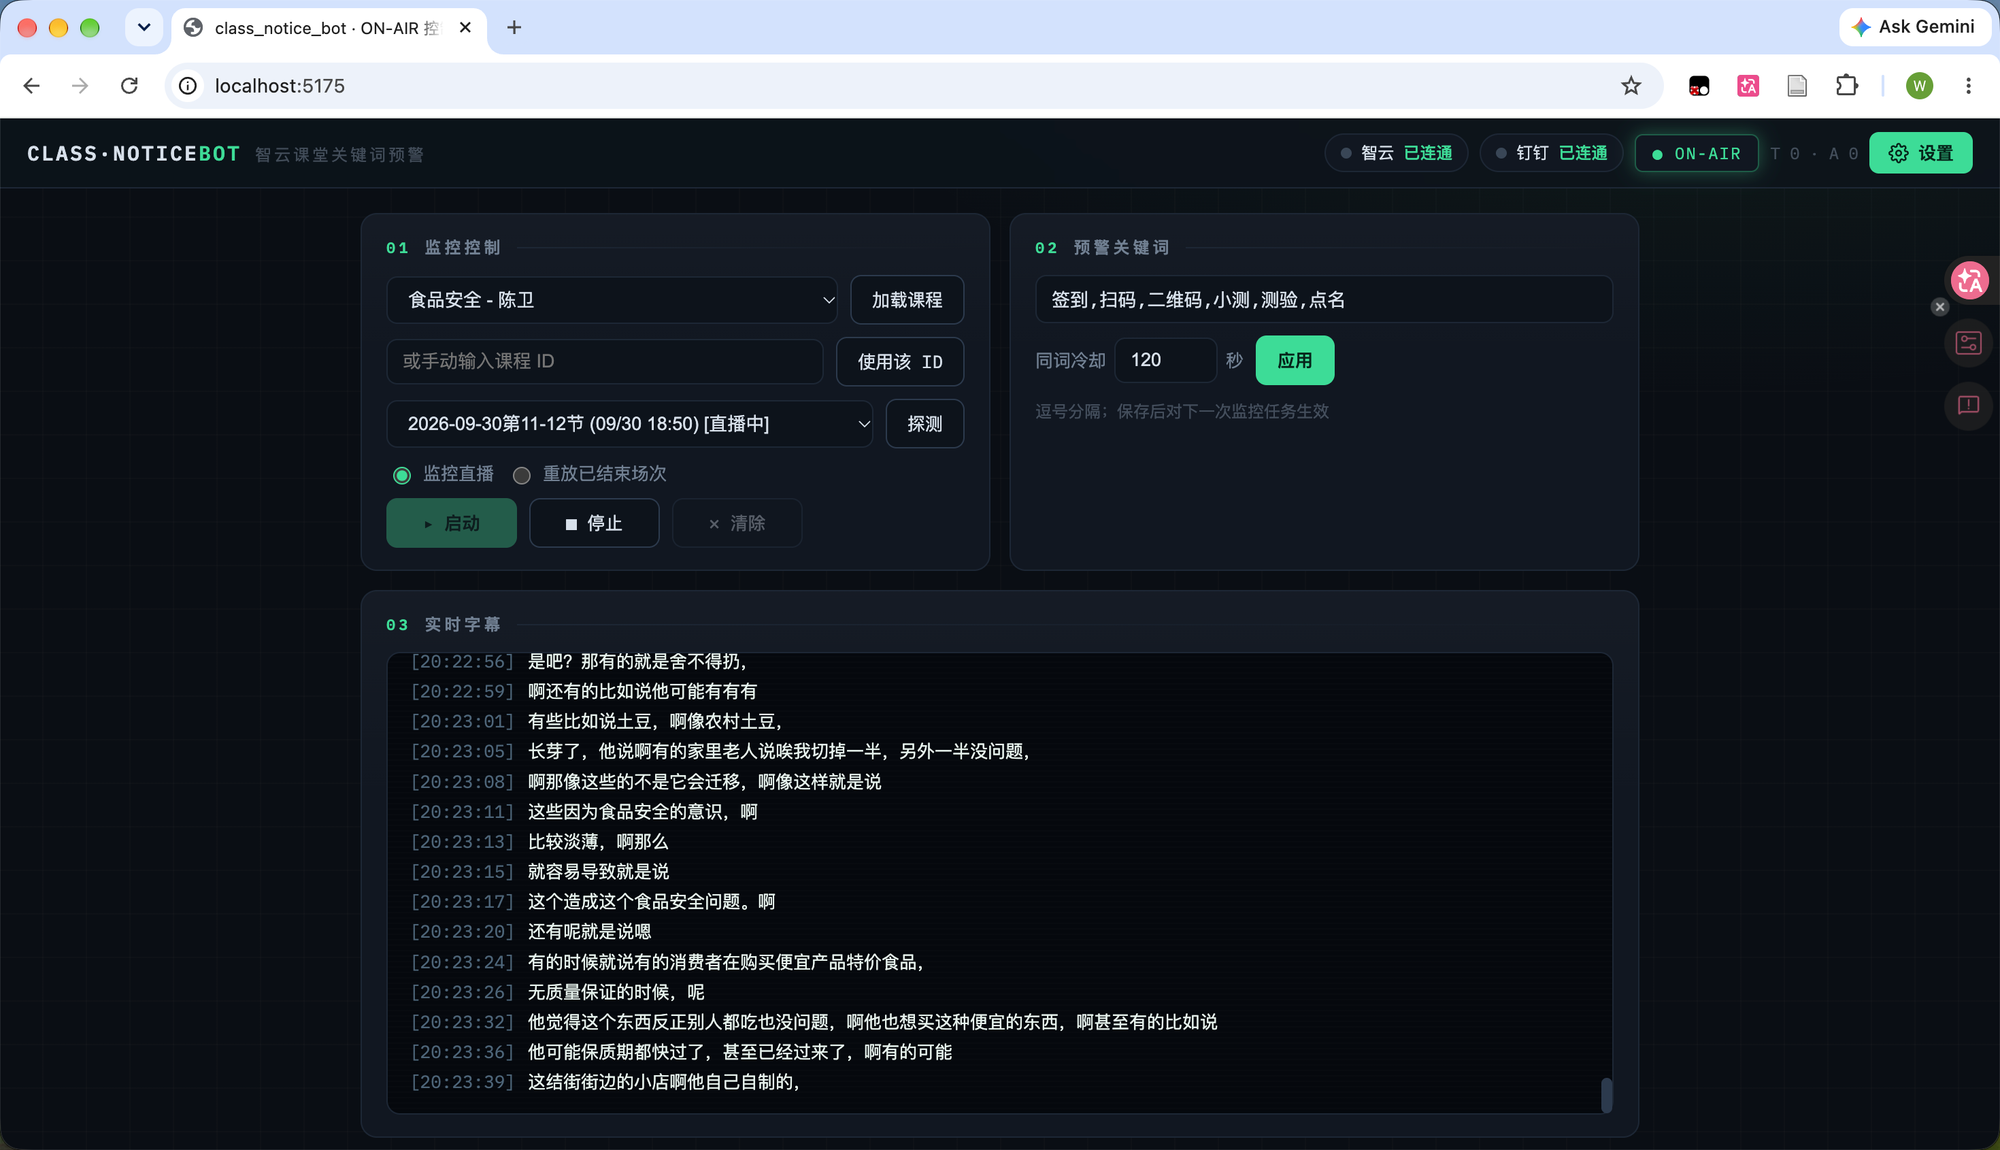
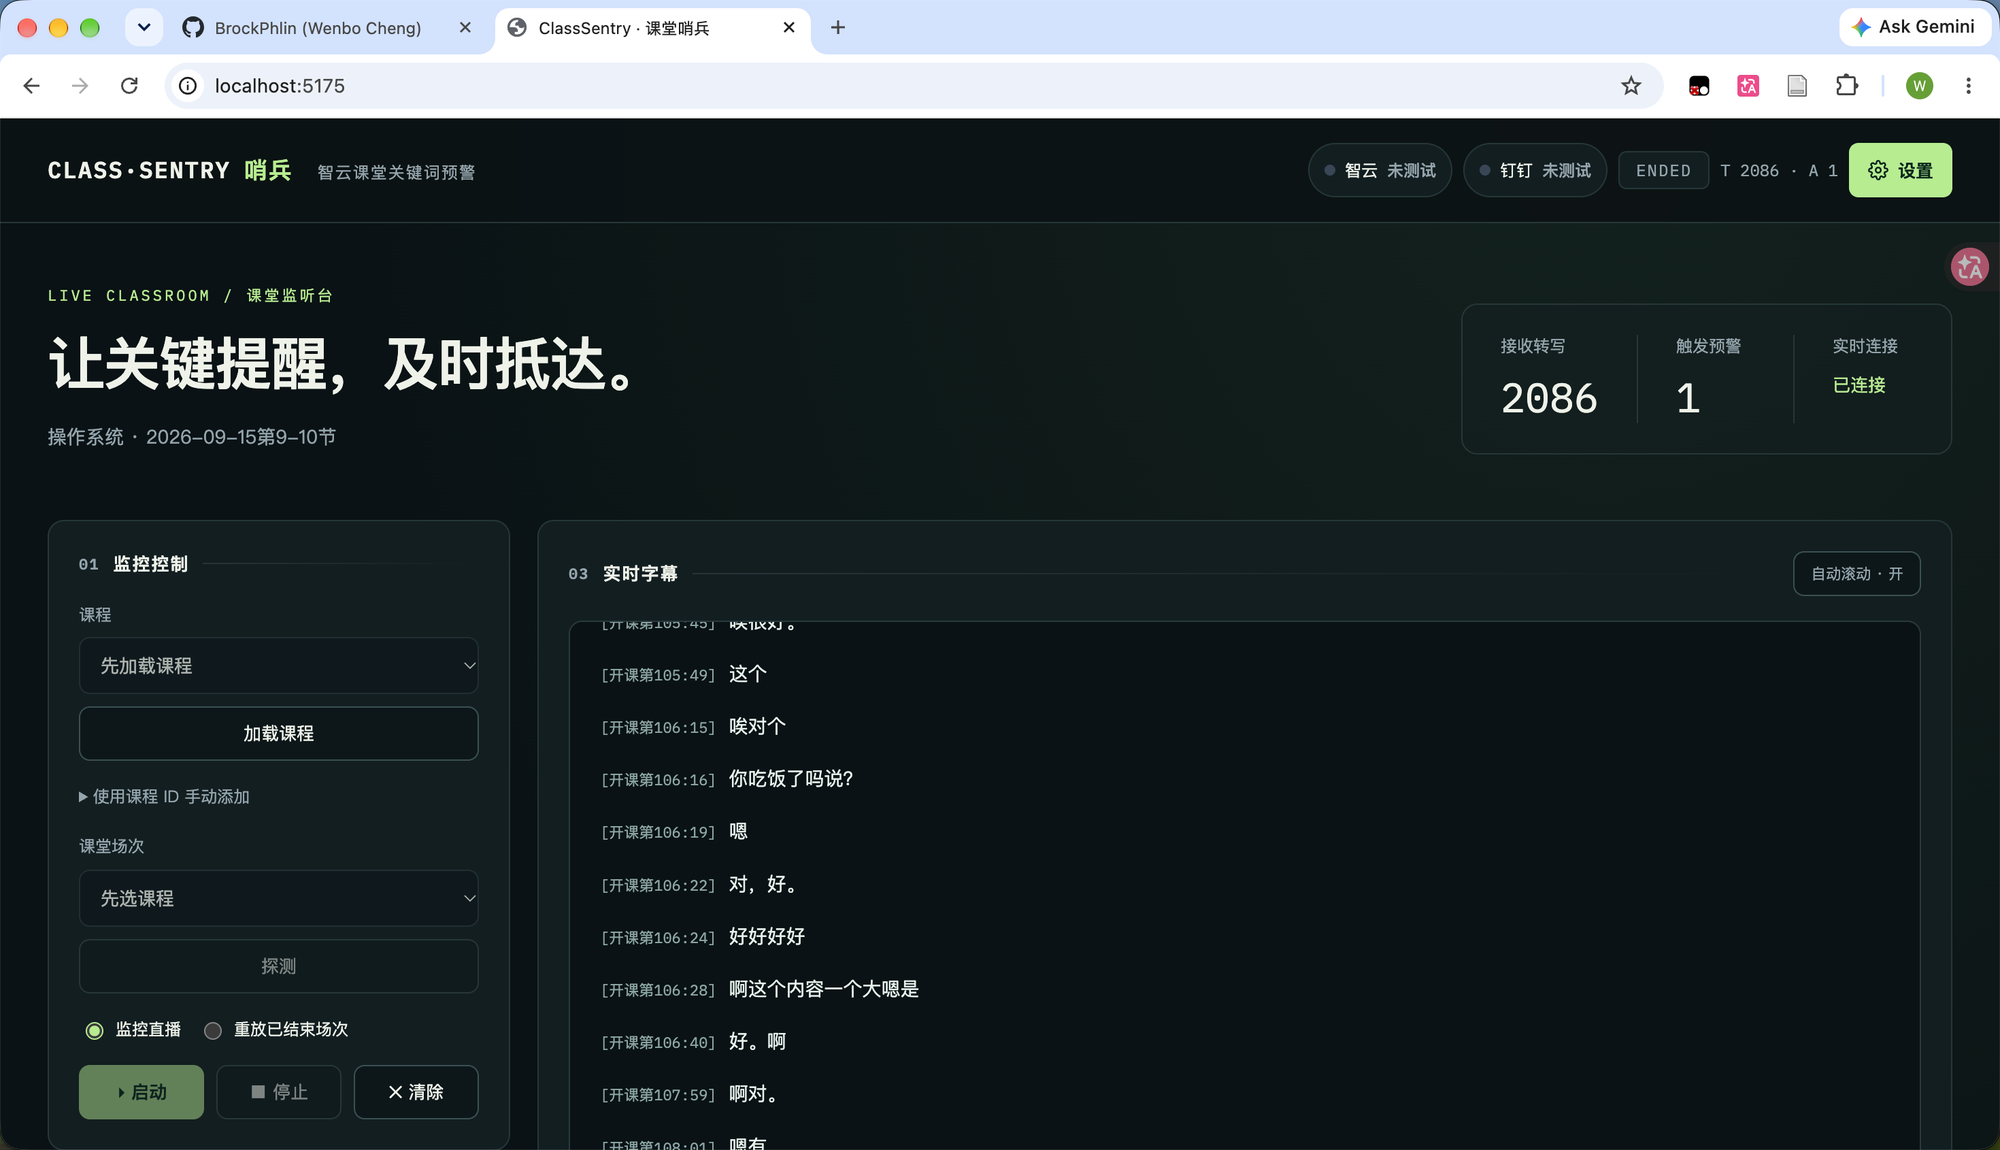
docs: 更新控制台截图为新版 ClassSentry 界面

diff --git a/README.md b/README.md
@@ -2,7 +2,7 @@
 
 智云课堂直播的「听讲哨兵」：监听平台实时语音识别，老师说到「签到 / 小测 / 扫码」等关键词时，钉钉机器人秒级推送预警，网页控制台同步滚动实时字幕。
 
-![ON-AIR 控制台](docs/screenshot.png)
+![ClassSentry 控制台](docs/screenshot.png)
 
 钉钉收到的预警长这样：
 
